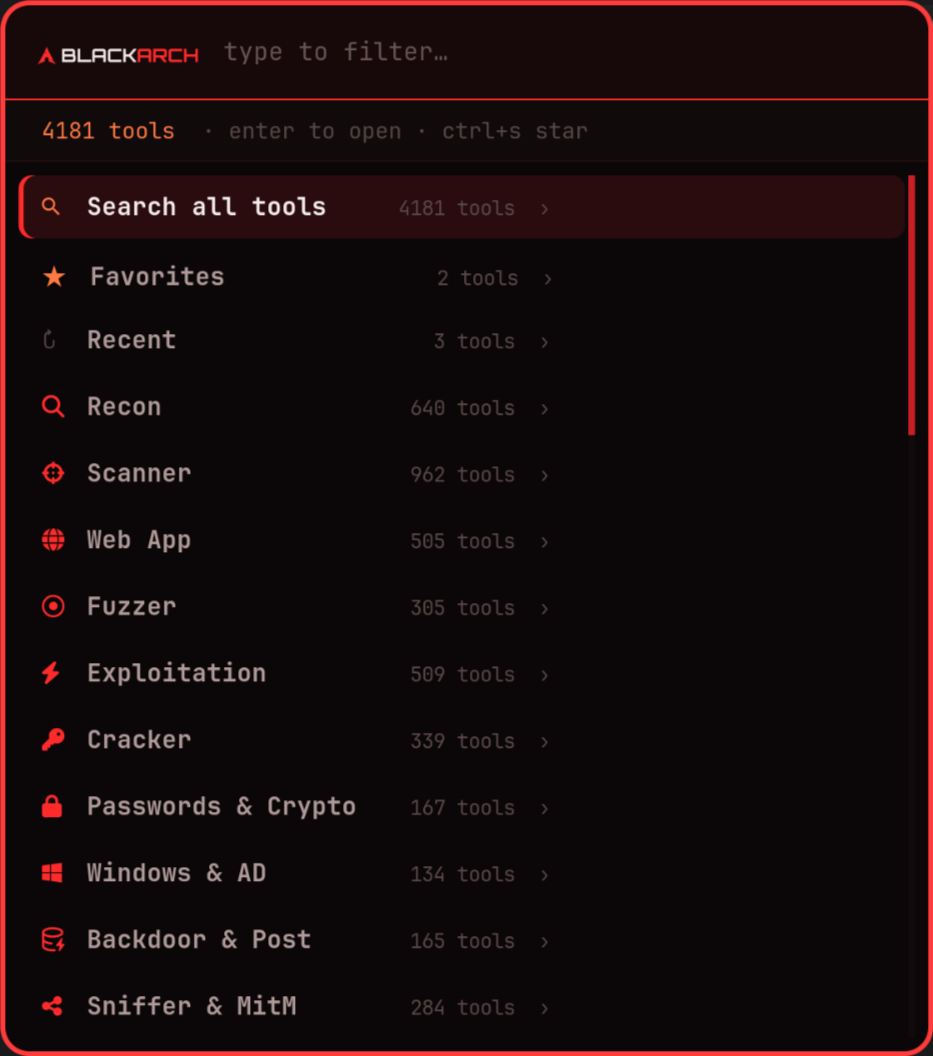
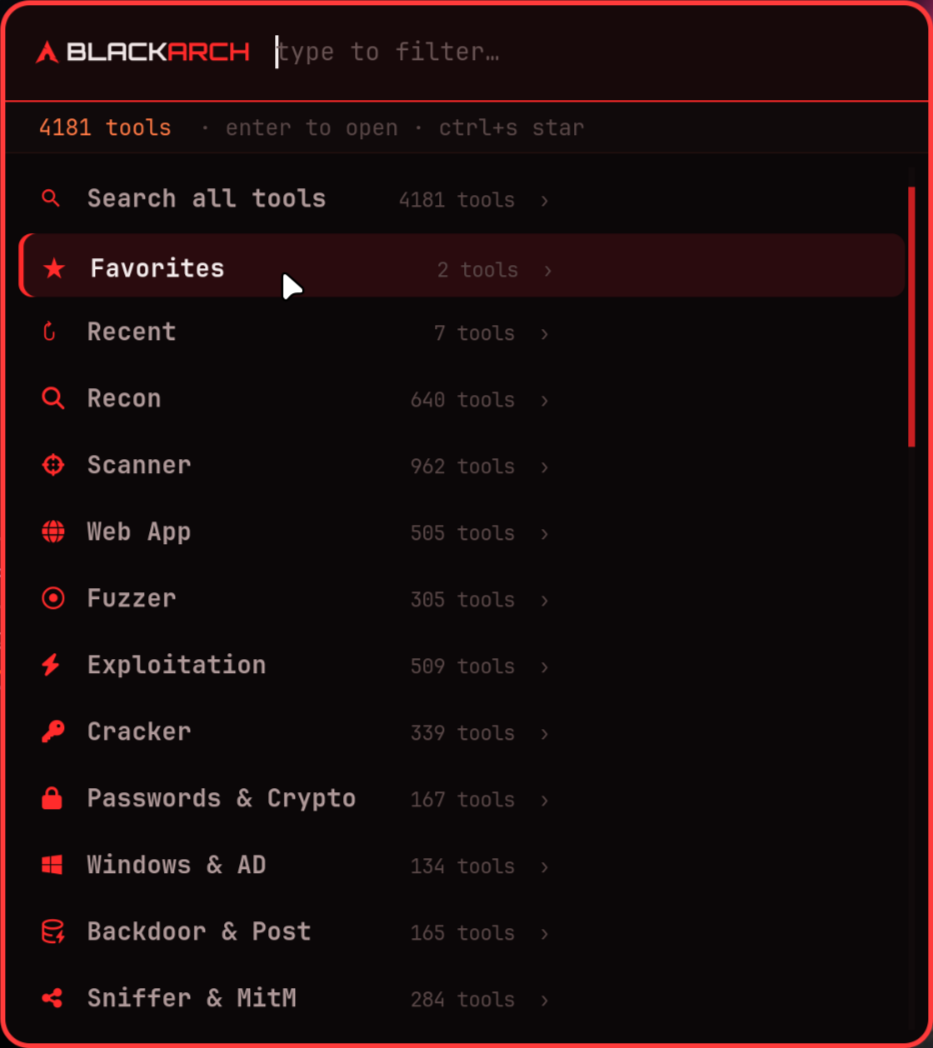
fix(menu): keep Favorites and Recent visible, and red like the rest
Hiding the two folders while empty meant a fresh install showed neither,
so there was nothing to tell you the features existed -- and the box
changed shape the first time you starred something. Show them always,
counts and all; a zero is information too.

Their icons were ember and faint grey while every other icon in the box
is red, which made them read as a different class of thing when they are
exactly the same class: a folder of tools. All icons are red now.

diff --git a/README.md b/README.md
@@ -159,15 +159,15 @@ shape whether you have starred two tools or fifty:
 
 ```
   🔍 Search all tools   4181 tools ›    every indexed tool, one Enter away
-  ★  Favorites             2 tools ›    appears once you star something
-  ↻  Recent                3 tools ›    appears once you launch something
+  ★  Favorites             2 tools ›    what you starred with Ctrl+S
+  ↻  Recent                3 tools ›    filled in as you launch things
      Recon                640 tools ›
      Scanner              962 tools ›   …27 categories
 ```
 
 Every row opens a list of tools you filter by typing. **Favorites** and
-**Recent** are folders exactly like the categories, and are hidden entirely
-while empty — a row that opens nothing has no business being there.
+**Recent** are folders exactly like the categories, and stay in place even at
+zero, so the box never changes shape underneath you.
 
 **Don't know the name?** Pick a category and browse it — same picker, same keys.
 `Esc` goes back up, `Esc` again closes.
